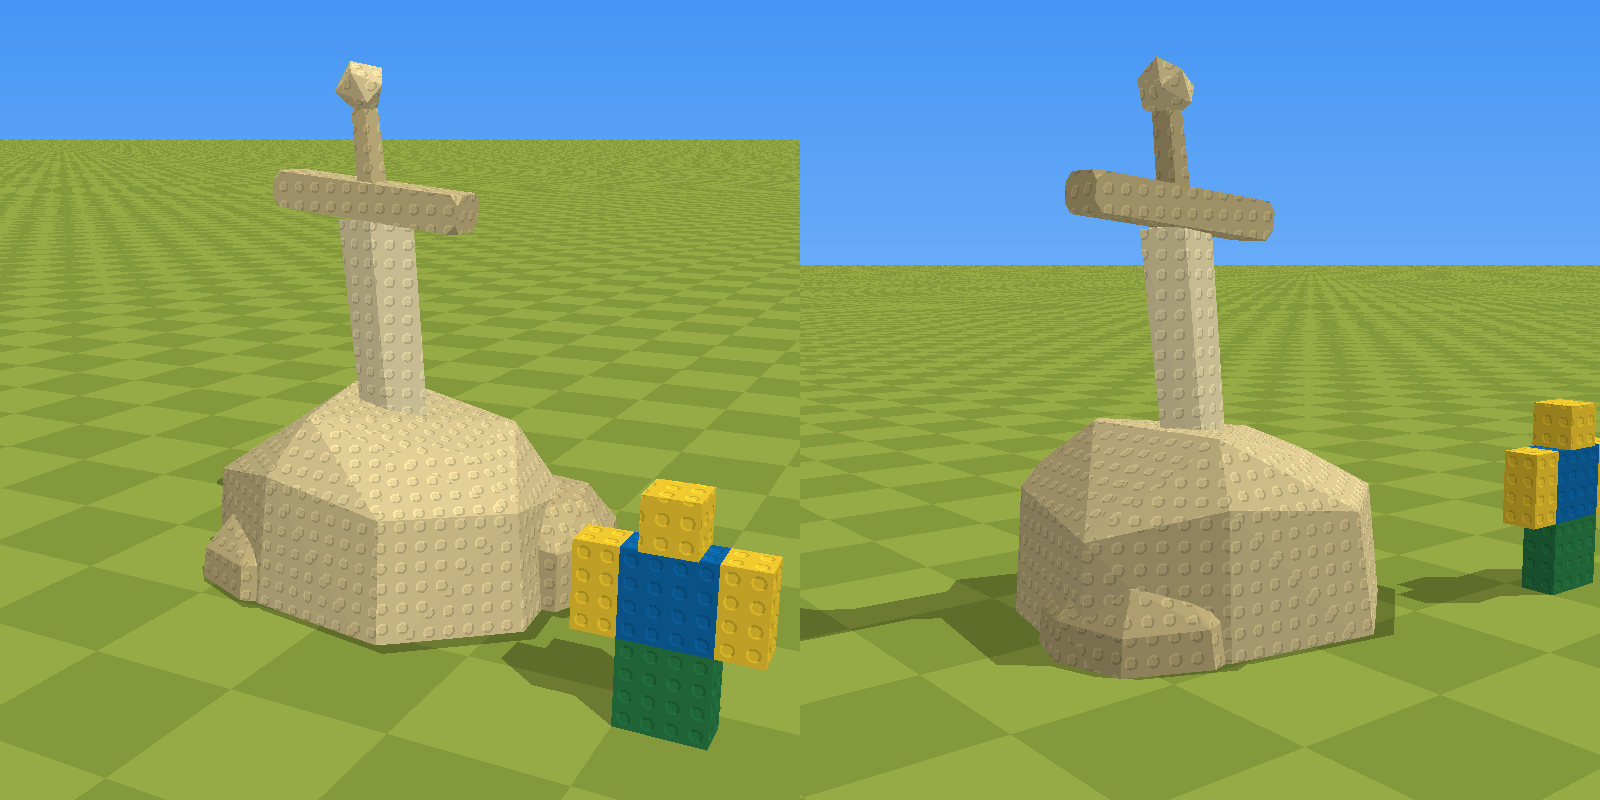
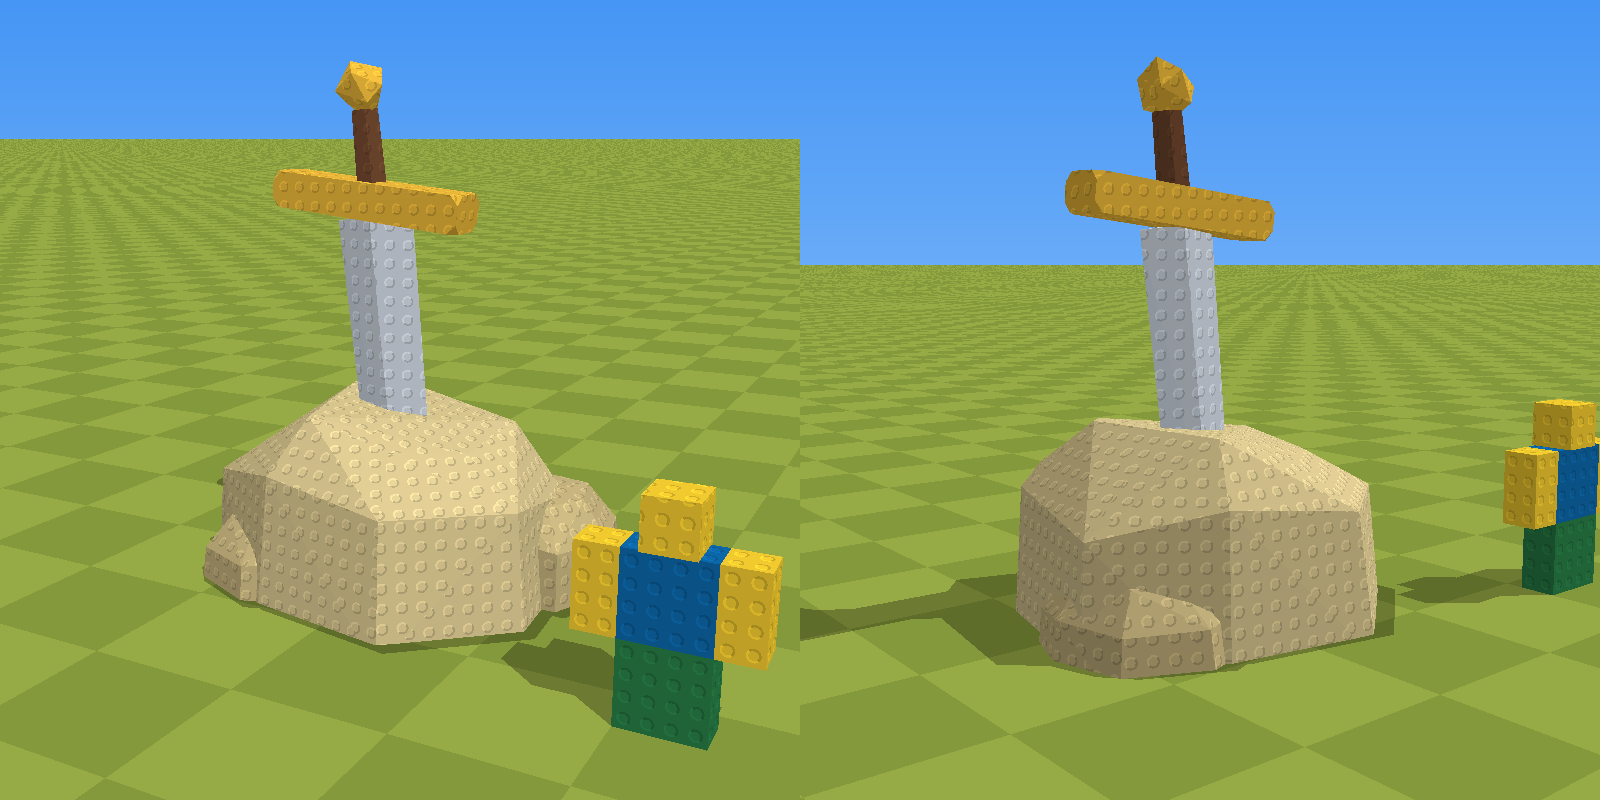
Sword in the stone: a real sword (steel blade, gold guard and pommel, leather grip) (QM)
Claude-Session: https://claude.ai/code/session_01G2z5FpwRjkqyYaAUWYgk7A

Changed region(s): [[0.1562, 0.0625, 0.3125, 0.5312], [0.6562, 0.0625, 0.8125, 0.5625]]

diff --git a/tools/sword_stone.py b/tools/sword_stone.py
@@ -1,5 +1,5 @@
 """Sword in the stone statue (QM, Oct 13): a chunky boulder with a sword stuck in its
-top, all carved from one yellowish-tinted stone, in the rock meshes' style (faceted convex
+top: the rock a yellowish-tinted stone, the sword a real one (steel, gold, leather), in the rock meshes' style (faceted convex
 pieces, flat shaded, studded; each piece its own MeshPart in its own shade).
 
 Run: python3 tools/sword_stone.py
@@ -24,7 +24,8 @@ from plant_meshes import blob, parts_of  # noqa: E402
 from crimson_meshes import slab  # noqa: E402
 
 OUT = os.path.join(HERE, "..", "design", "sword_stone")
-STONE = [(214, 196, 142), (196, 178, 126), (236, 222, 172), (204, 186, 132), (222, 204, 150)]  # yellowish rock
+STONE = [(214, 196, 142), (196, 178, 126)]  # yellowish rock
+STEEL, GOLD, LEATHER = (206, 214, 224), (232, 182, 58), (112, 72, 46)  # a real sword (QM)
 
 
 def sword_stone(rng):
@@ -55,8 +56,8 @@ def sword_stone(rng):
             grip.append(c + np.array([math.cos(a) * r * math.cos(tilt), -math.cos(a) * r * math.sin(tilt), math.sin(a) * r]))
     pommel = blob(rng, along(8.75), 0.75, 10, jitter=0.05)
     return [("Rock", STONE[0], [rock[0]]), ("Rock", STONE[1], rock[1:]),
-            ("Blade", STONE[2], [np.array(blade)]), ("Guard", STONE[3], [guard]),
-            ("Grip", STONE[1], [np.array(grip)]), ("Pommel", STONE[4], [pommel])]
+            ("Blade", STEEL, [np.array(blade)]), ("Guard", GOLD, [guard]),
+            ("Grip", LEATHER, [np.array(grip)]), ("Pommel", GOLD, [pommel])]
 
 
 def main():
